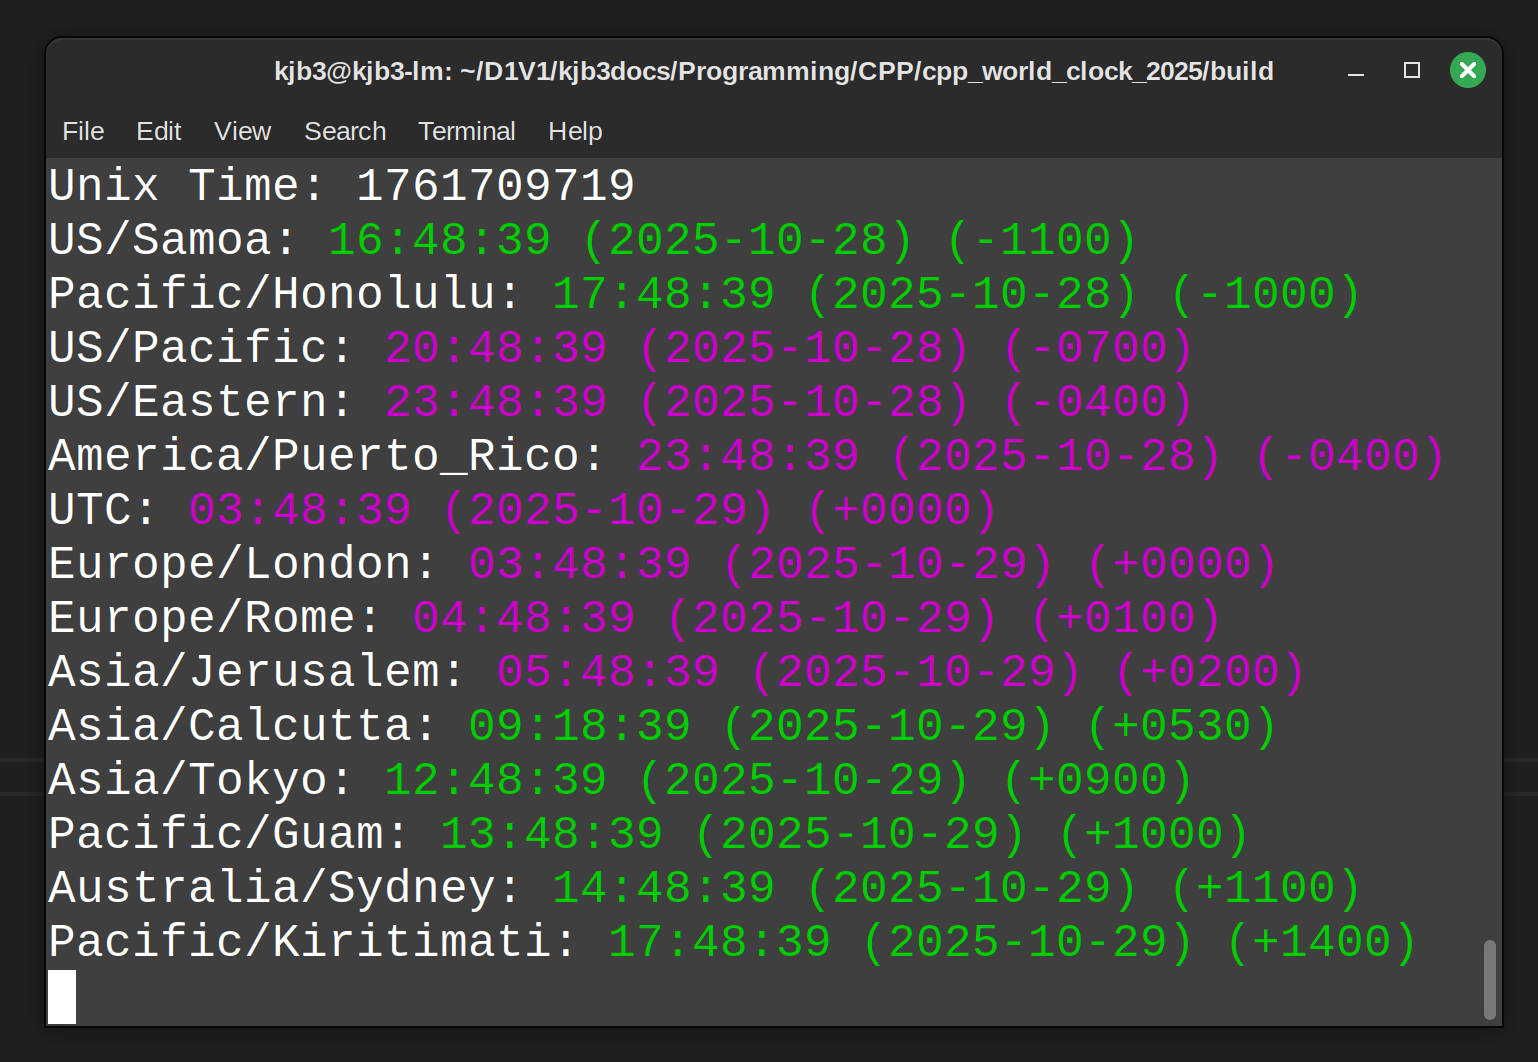
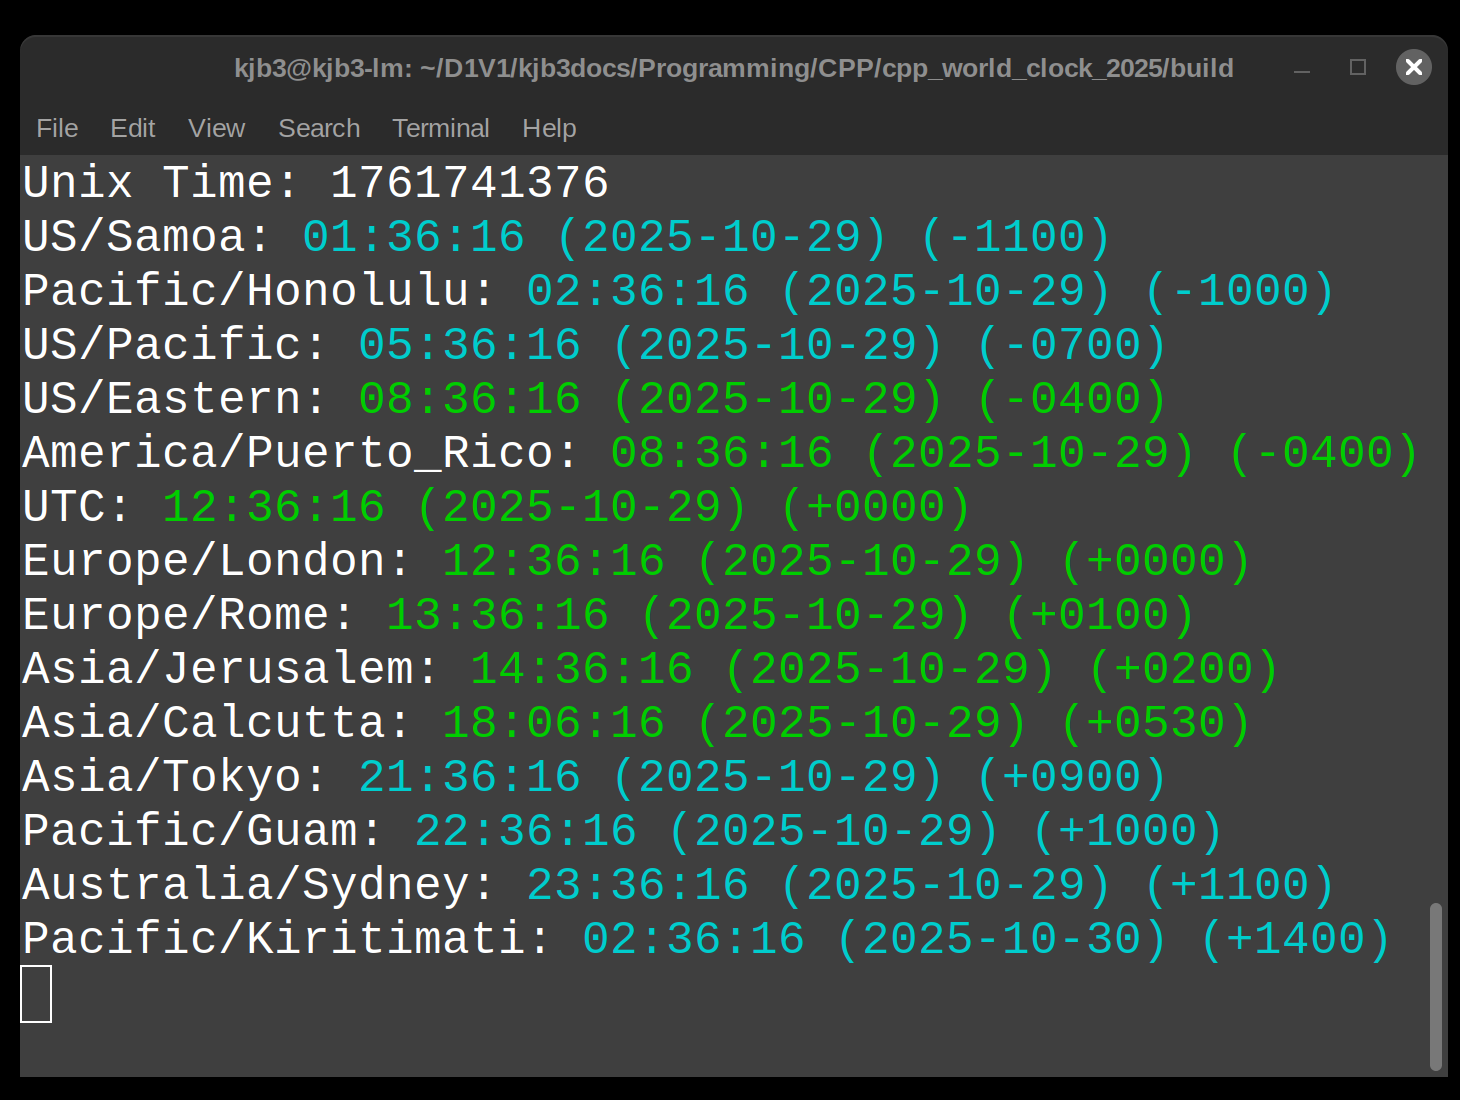
Made a few cosmetic improvements

diff --git a/cpp_world_clock.cpp b/cpp_world_clock.cpp
@@ -96,7 +96,9 @@ void print_tzs(std::vector<std::string> tz_string_list) {
   // https://en.cppreference.com/w/cpp/chrono/time_point/time_since_epoch .
   auto unix_time_s = std::chrono::duration_cast<std::chrono::seconds>(
     current_time.time_since_epoch()).count();
-  std::cout << "Unix Time: " <<  unix_time_s << "\n";
+  std::cout << "Unix Time: " <<  unix_time_s << "\033[K\n";
+    // \033[K clears out any lingering additional text to the right
+    // of each line.
   // Printing out all time zone data:
   for (int i = 0; i < tz_string_list.size(); i++) {
     std::string tz_name_str = tz_string_list[i];
@@ -113,22 +115,17 @@ void print_tzs(std::vector<std::string> tz_string_list) {
     int tz_time_hours = std::stoi(tz_time_str.substr(0, 2));
     std::string time_color = "\033[32m";
     if ((tz_time_hours < 8) || (tz_time_hours >= 20)) 
-      {time_color = "\033[35m";}
+      {time_color = "\033[36m";}
     std::cout << tz_string_list[i] << ": " << time_color
-    << tz_time_str << "\033[0m" << "\n";
-              // We could also use "\033[K\n" to clear out any 
-              // text to the right of each line, but this should
-              // rarely be necessary--and the user could get the same
-              // result by just restarting the program.
+    << tz_time_str << "\033[0m" << "\033[K\n";
   }
 }
 
 int main() { 
   // Clearing the screen:
   // (For reference, see https://en.wikipedia.org/wiki/ANSI_escape_code)
-
-  std::cout << "\033[1;1H";
-  std::cout << "\033[J";
+    std::cout << "\033[1;1H";
+    std::cout << "\033[J";
   while (true)
   {
     // We'll want to next run the script as close to the top of
@@ -149,18 +146,13 @@ int main() {
     auto next_second = std::chrono::floor<std::chrono::seconds>(
     std::chrono::system_clock::now()) + std::chrono::seconds(1);
     std::this_thread::sleep_until(next_second);
-    // Returning to the top of the console:
-    std::cout << "\033[1;1H";
+    
     print_tzs(tz_string_list); 
-  // At this point, we could also enter "\033[J" to clear out any 
-  // text below these lines, but this would only be necessary if 
-  // the terminal were resized--and the user could also achieve this
-  // same effect simply by restarting the program.
-      
-    // std::cout << "\033[J";
+    // Clearing out the rest of the screen (which may be necessary
+    // if the window had been resized):
+    std::cout << "\033[J";
+    // Returning to the top of the terminal:
+    std::cout << "\033[1;1H";
 
-
-    // std::this_thread::sleep_until(
-    // std::chrono::system_clock::now() + std::chrono::seconds(1));
   }
 }
